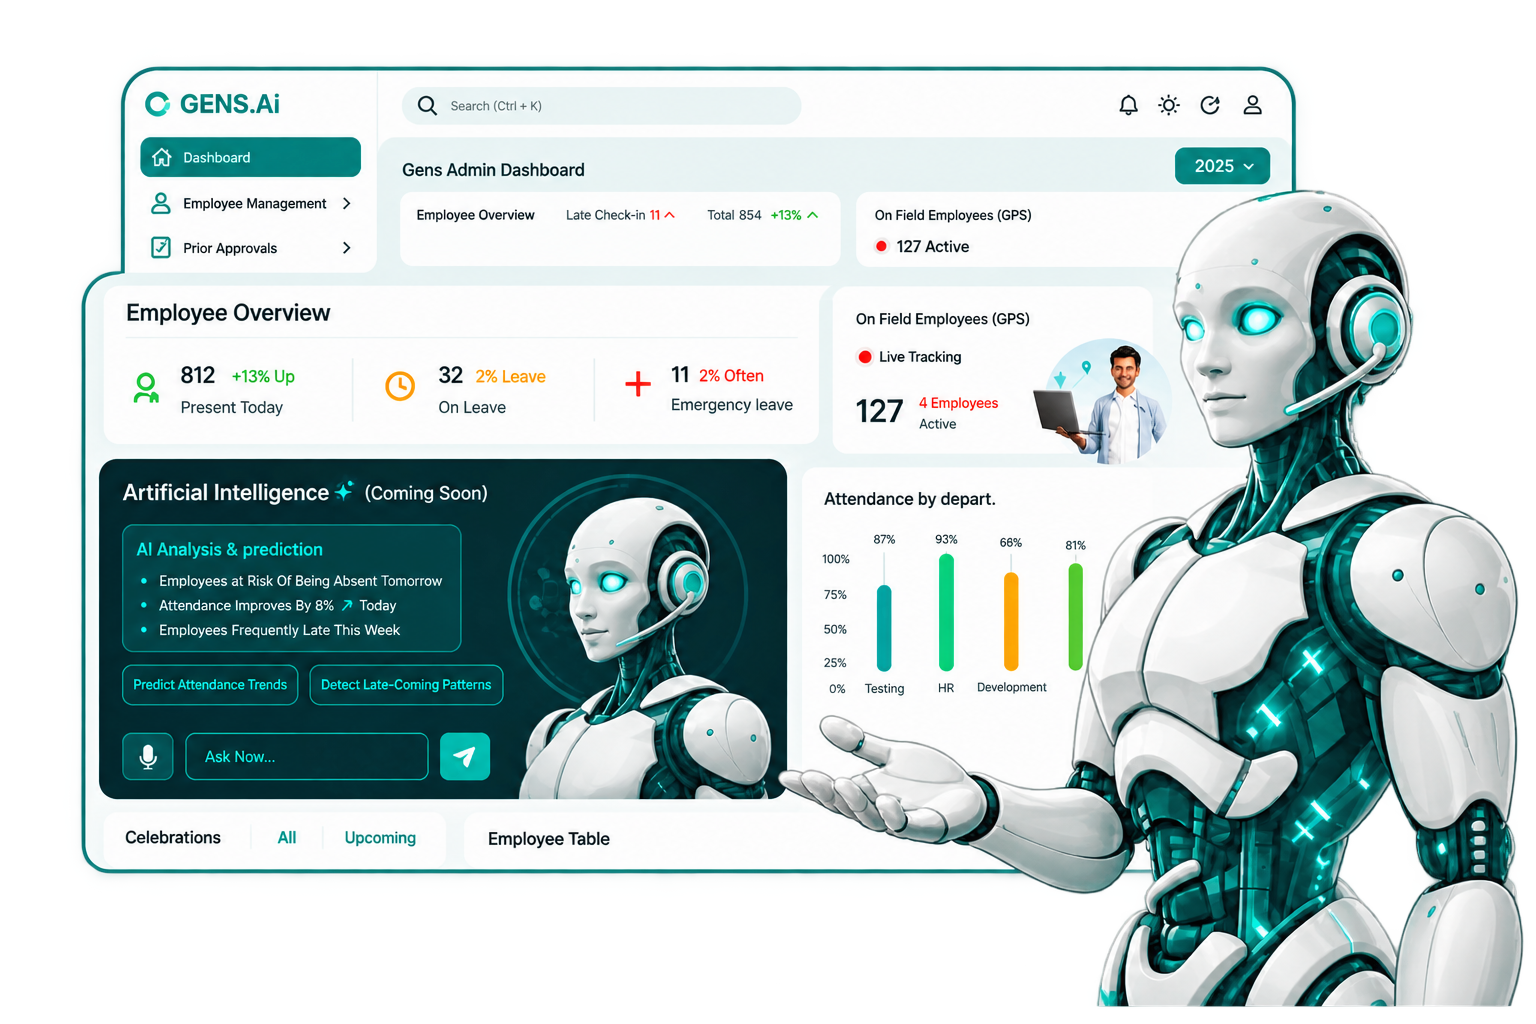
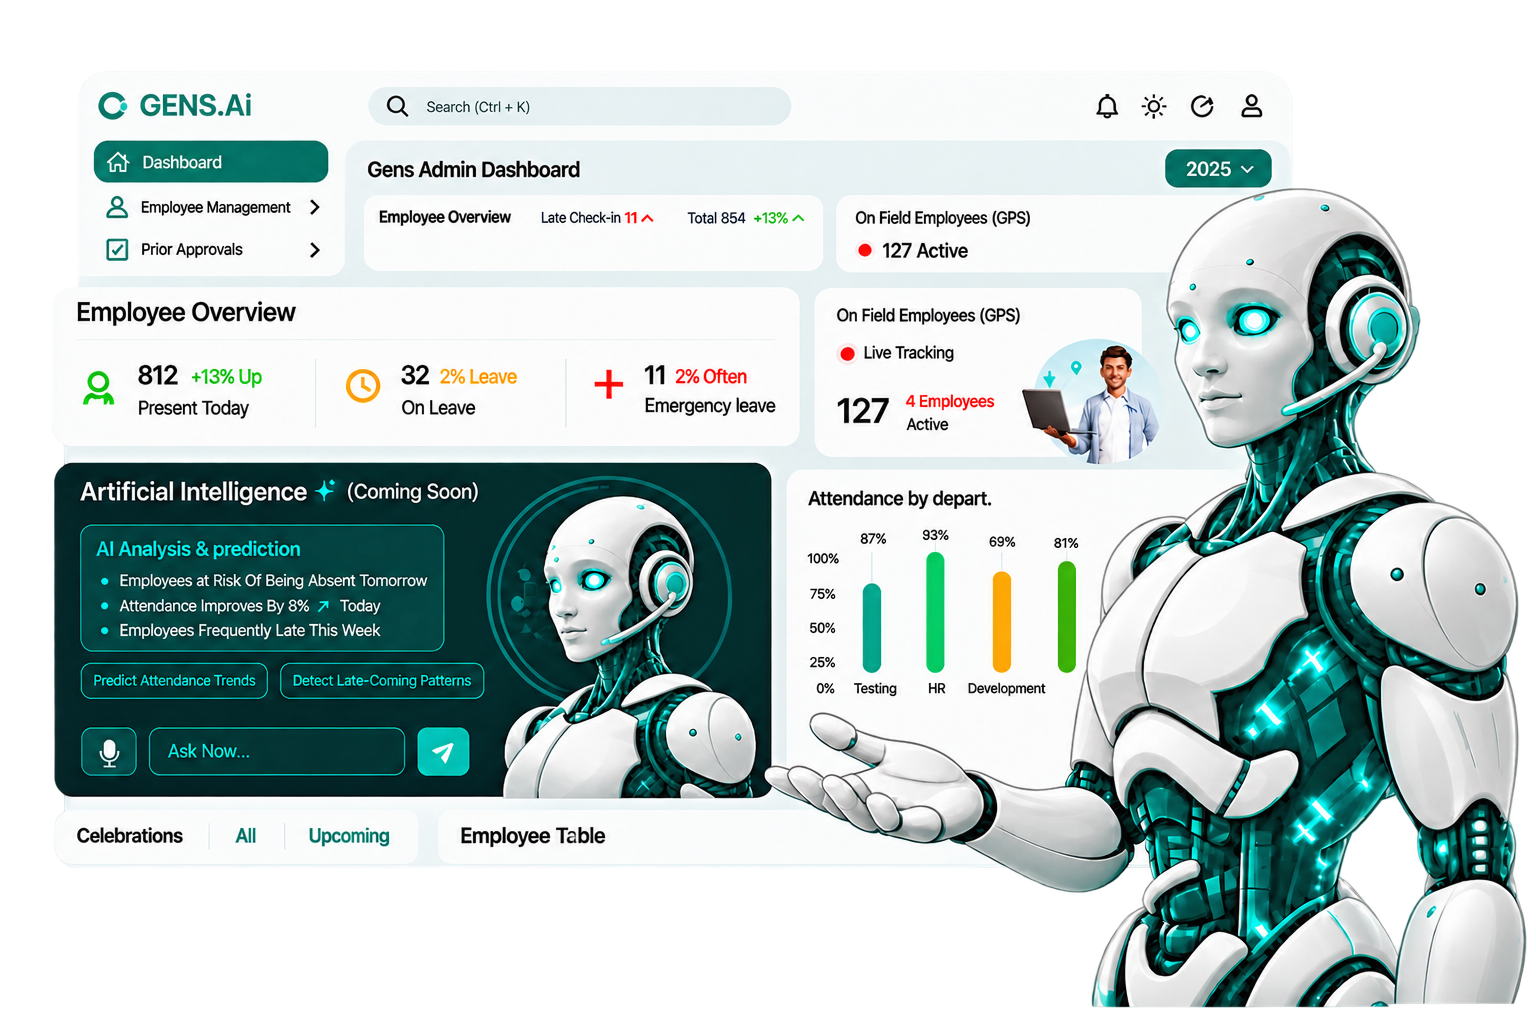
commit

diff --git a/frontend/src/app/attendance/holiday/holiday.component.ts b/frontend/src/app/attendance/holiday/holiday.component.ts
@@ -75,53 +75,44 @@ export class HolidayComponent {
     });
 
   }
-  pageSize = 5;
   currentPage = 1;
   searchTerm = '';
   itemsPerPage = 10;
+  /** Count after search, before page slice — drives pagination UI */
+  filteredTotal = 0;
+
   onSearch(term: string) {
-    if (!term) {
-      this.fetchHoliday();
-    } else {
-      this.searchTerm = term.toLowerCase();
-      this.currentPage = 1;
-      this.applyFilters();
-    }
-
+    this.searchTerm = (term || '').toLowerCase();
+    this.currentPage = 1;
+    this.applyFilters();
   }
-
 
   onPageChange(page: number) {
     this.currentPage = page;
     this.applyFilters();
   }
 
-
   onPageSizeChange(size: number) {
-    this.pageSize = size;
+    this.itemsPerPage = Number(size) || 10;
     this.currentPage = 1;
     this.applyFilters();
   }
-  filteredDesignation: any = []
-  searchText: any = ''
 
   applyFilters() {
-    const value = this.searchTerm || '';
-    this.searchText = value.trim();
+    const value = (this.searchTerm || '').trim().toLowerCase();
+    const filtered = !value
+      ? [...(this.originalList || [])]
+      : (this.originalList || []).filter((item: any) =>
+          JSON.stringify(item).toLowerCase().includes(value),
+        );
 
-    if (this.searchText === '') {
-      this.HolidayList = [...this.originalList];
-    } else {
-      this.HolidayList = this.originalList.filter((item: any) =>
-        JSON.stringify(item).toLowerCase().includes(this.searchText.toLowerCase())
-      );
-    }
+    this.filteredTotal = filtered.length;
+    const size = Number(this.itemsPerPage) || 10;
+    const totalPages = Math.max(1, Math.ceil(this.filteredTotal / size) || 1);
+    if (this.currentPage > totalPages) this.currentPage = totalPages;
 
-    let data = [...this.HolidayList];
-    // pagination
-    const start = (this.currentPage - 1) * this.pageSize;
-    const end = start + this.pageSize;
-    this.HolidayList = data.slice(start, end);
+    const start = (this.currentPage - 1) * size;
+    this.HolidayList = filtered.slice(start, start + size);
   }
   getStatusClass(status: any): string {
     switch (status) {
@@ -133,18 +124,15 @@ export class HolidayComponent {
   }
   originalList: any = []
   async fetchHoliday() {
-    this.HolidayList = []
-    this.originalList = []
-
     this.attendanceService.getHolidayList(this.NewObj).subscribe(data => {
       if (data['status'] == true) {
-        // this.notyf.success(data['message']);
-
-        this.HolidayList = data.data;
-        for (let i = 0; i < this.HolidayList.length; i++) {
-          this.HolidayList[i]['image1'] = `${this.baseurl}/${this.HolidayList[i]['image']}`
+        const rows = data.data || [];
+        for (let i = 0; i < rows.length; i++) {
+          rows[i]['image1'] = `${this.baseurl}/${rows[i]['image']}`;
         }
-        this.originalList = data.data;
+        this.originalList = rows;
+        this.currentPage = 1;
+        this.applyFilters();
       }
       else if (data['status'] == 'expired') {
         this.router.navigate(['login'])
@@ -158,7 +146,6 @@ export class HolidayComponent {
   }
   HolidayTypeList: any = []
   async fetchHolidaytype() {
-    this.HolidayList = []
     this.master.getHolidayTypeDD().subscribe(data => {
       if (data['status'] == true) {
         // this.notyf.success(data['message']);

diff --git a/frontend/src/app/attendance/holiday/holiday.component.html b/frontend/src/app/attendance/holiday/holiday.component.html
@@ -210,7 +210,7 @@
           </div>
         </h5>
 
-        <app-search-pagination [totalItems]="HolidayList.length" [pageSize]="itemsPerPage" [currentPage]="currentPage"
+        <app-search-pagination [totalItems]="filteredTotal" [pageSize]="itemsPerPage" [currentPage]="currentPage"
           (search)="onSearch($event)" (pageChange)="onPageChange($event)" (pageSizeChange)="onPageSizeChange($event)">
           <div class="table-responsive">
           <table class="table dataTable">
@@ -227,7 +227,7 @@
             </thead>
             <tbody class="table-border-bottom-0">
               <tr *ngFor="let item of HolidayList; let i = index">
-                <th scope="row">{{ i + 1 }}</th>
+                <th scope="row">{{ (currentPage - 1) * itemsPerPage + i + 1 }}</th>
                 <!-- <td >{{ item["holiday_type_name"] }}</td> -->
                    <td>
                        <span

diff --git a/frontend/src/app/master/search-pagination/search-pagination.component.ts b/frontend/src/app/master/search-pagination/search-pagination.component.ts
@@ -34,9 +34,9 @@ get pages() {
 }
 
 onPageSizeChange(event: any): void {
-  const newPageSize = event.target.value;
+  const newPageSize = Number(event.target.value) || 10;
+  this.pageSize = newPageSize;
   this.pageSizeChange.emit(newPageSize);
-  this.pageSize = newPageSize; // Update the page size if needed
 }
   // get pages() {
   //   return Array(Math.ceil(this.totalItems / this.pageSize)).fill(0).map((_, i) => i + 1);
